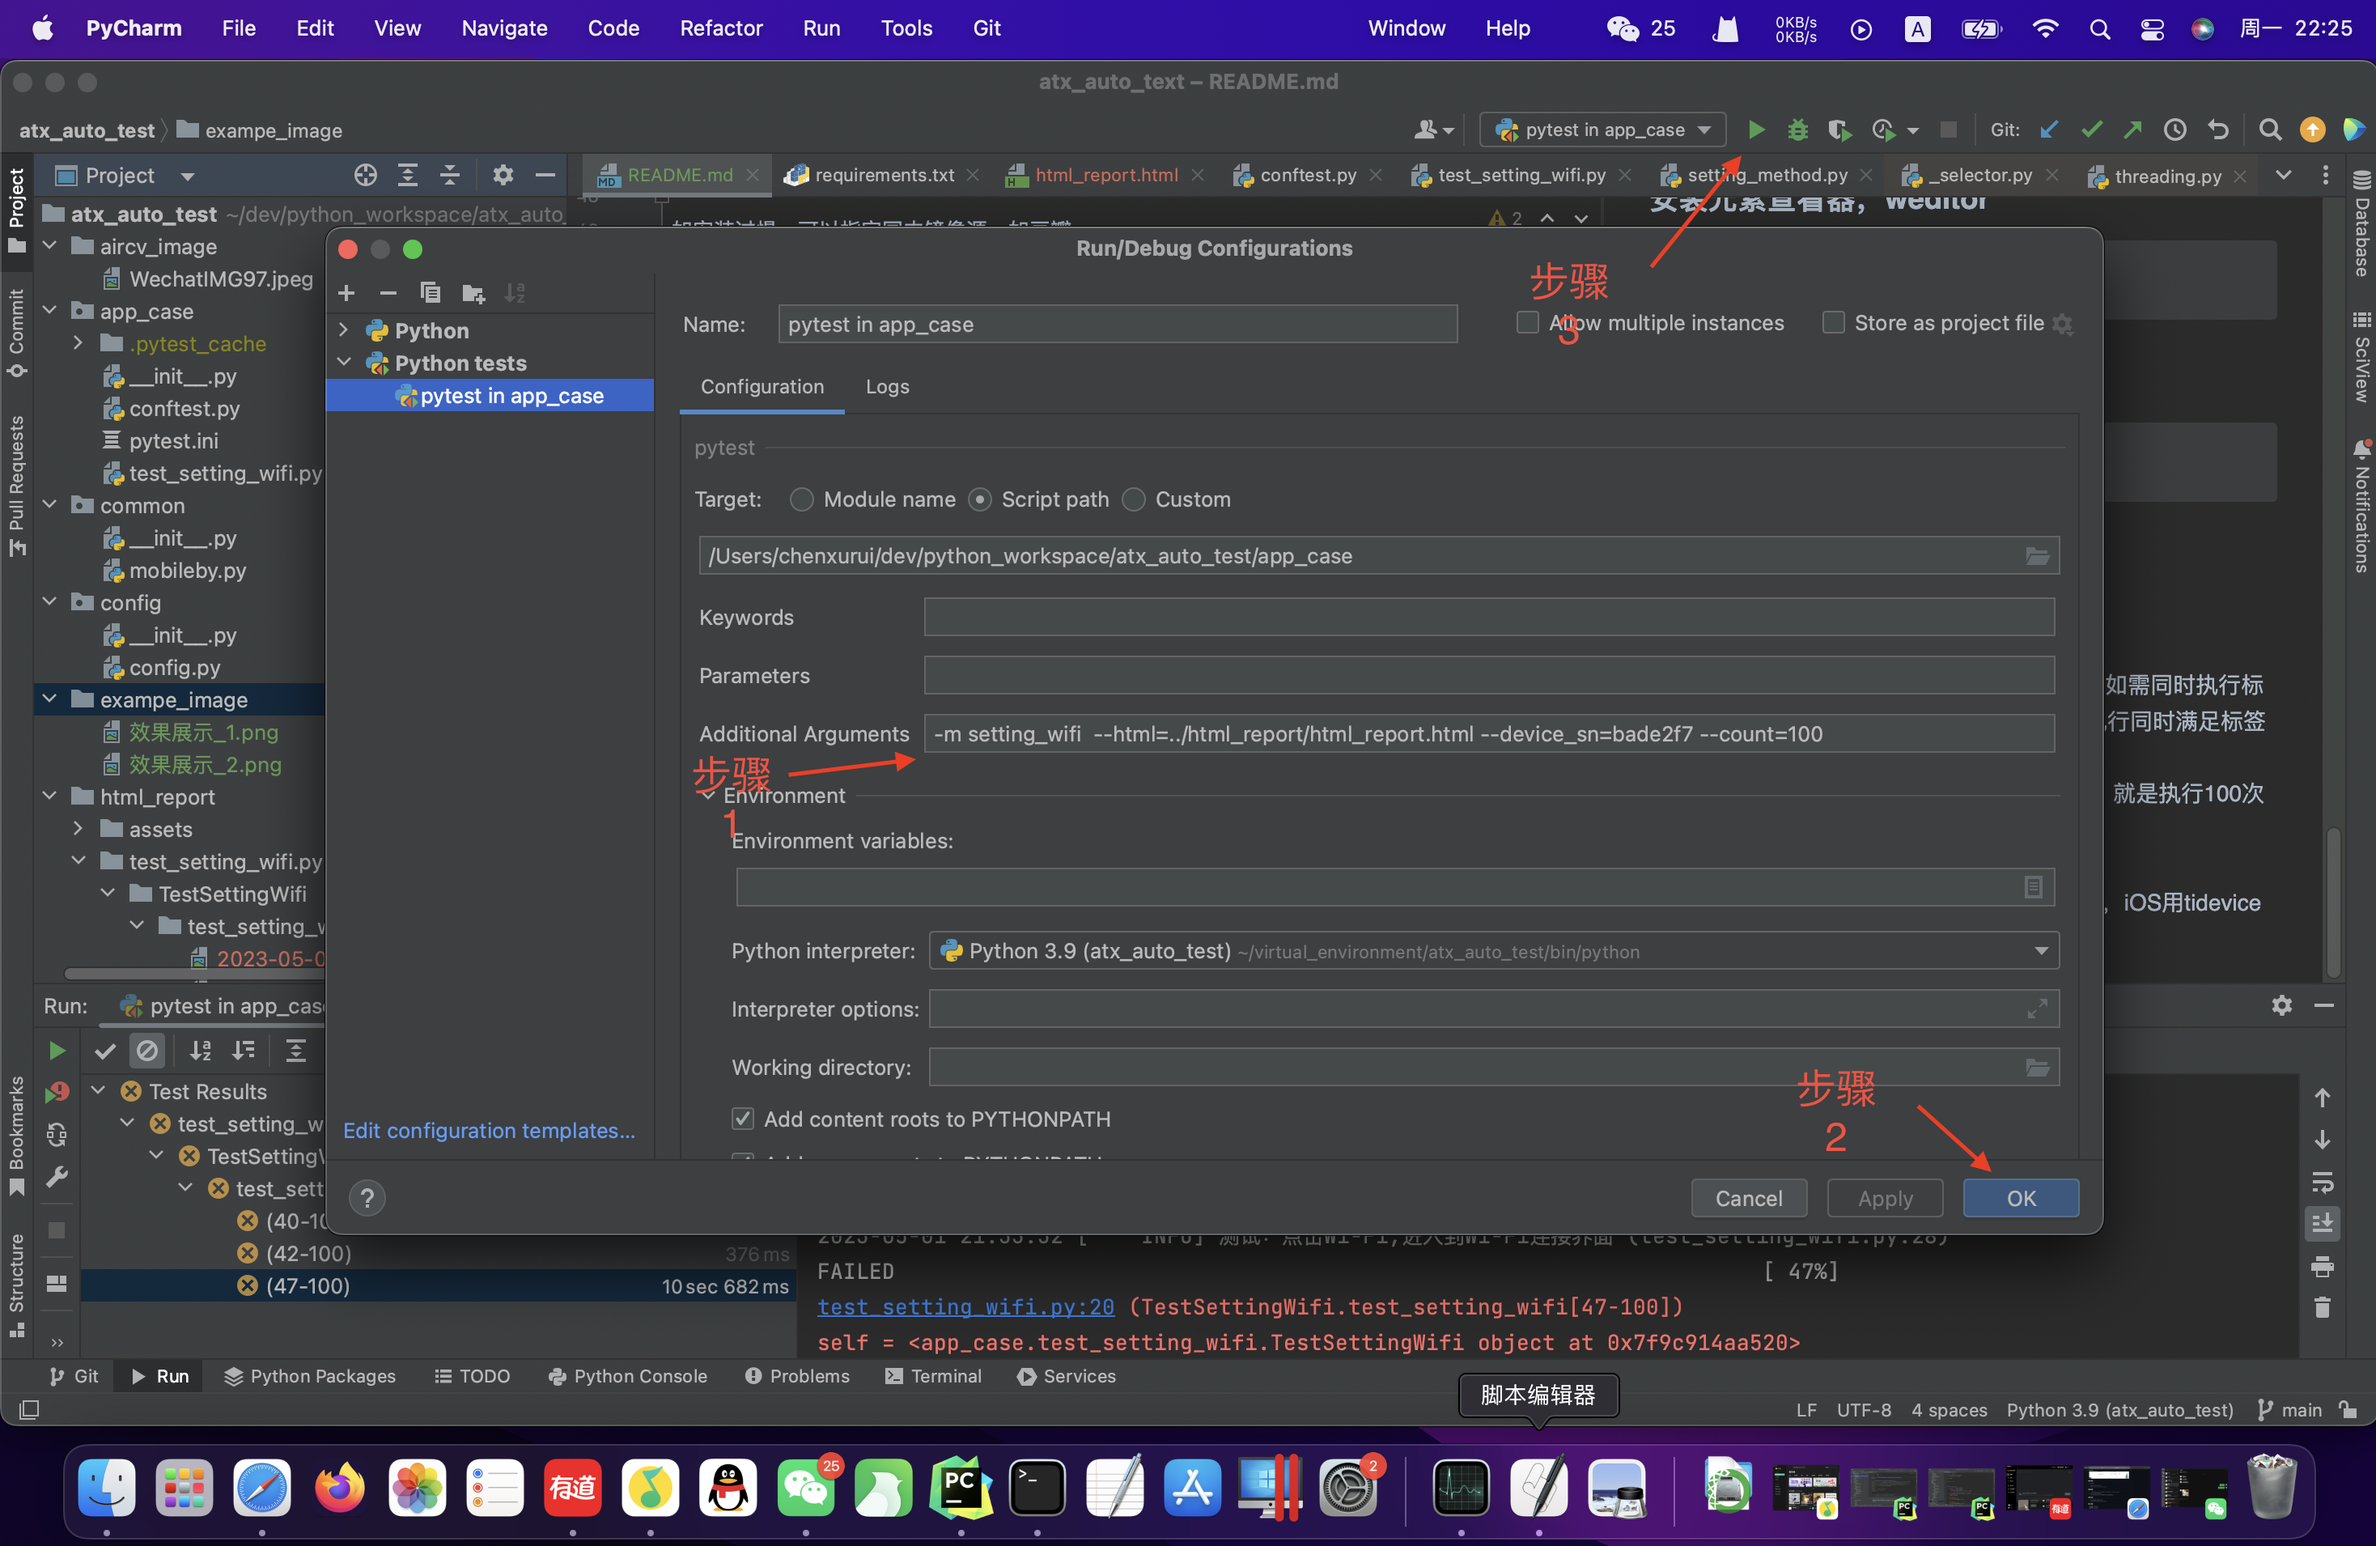
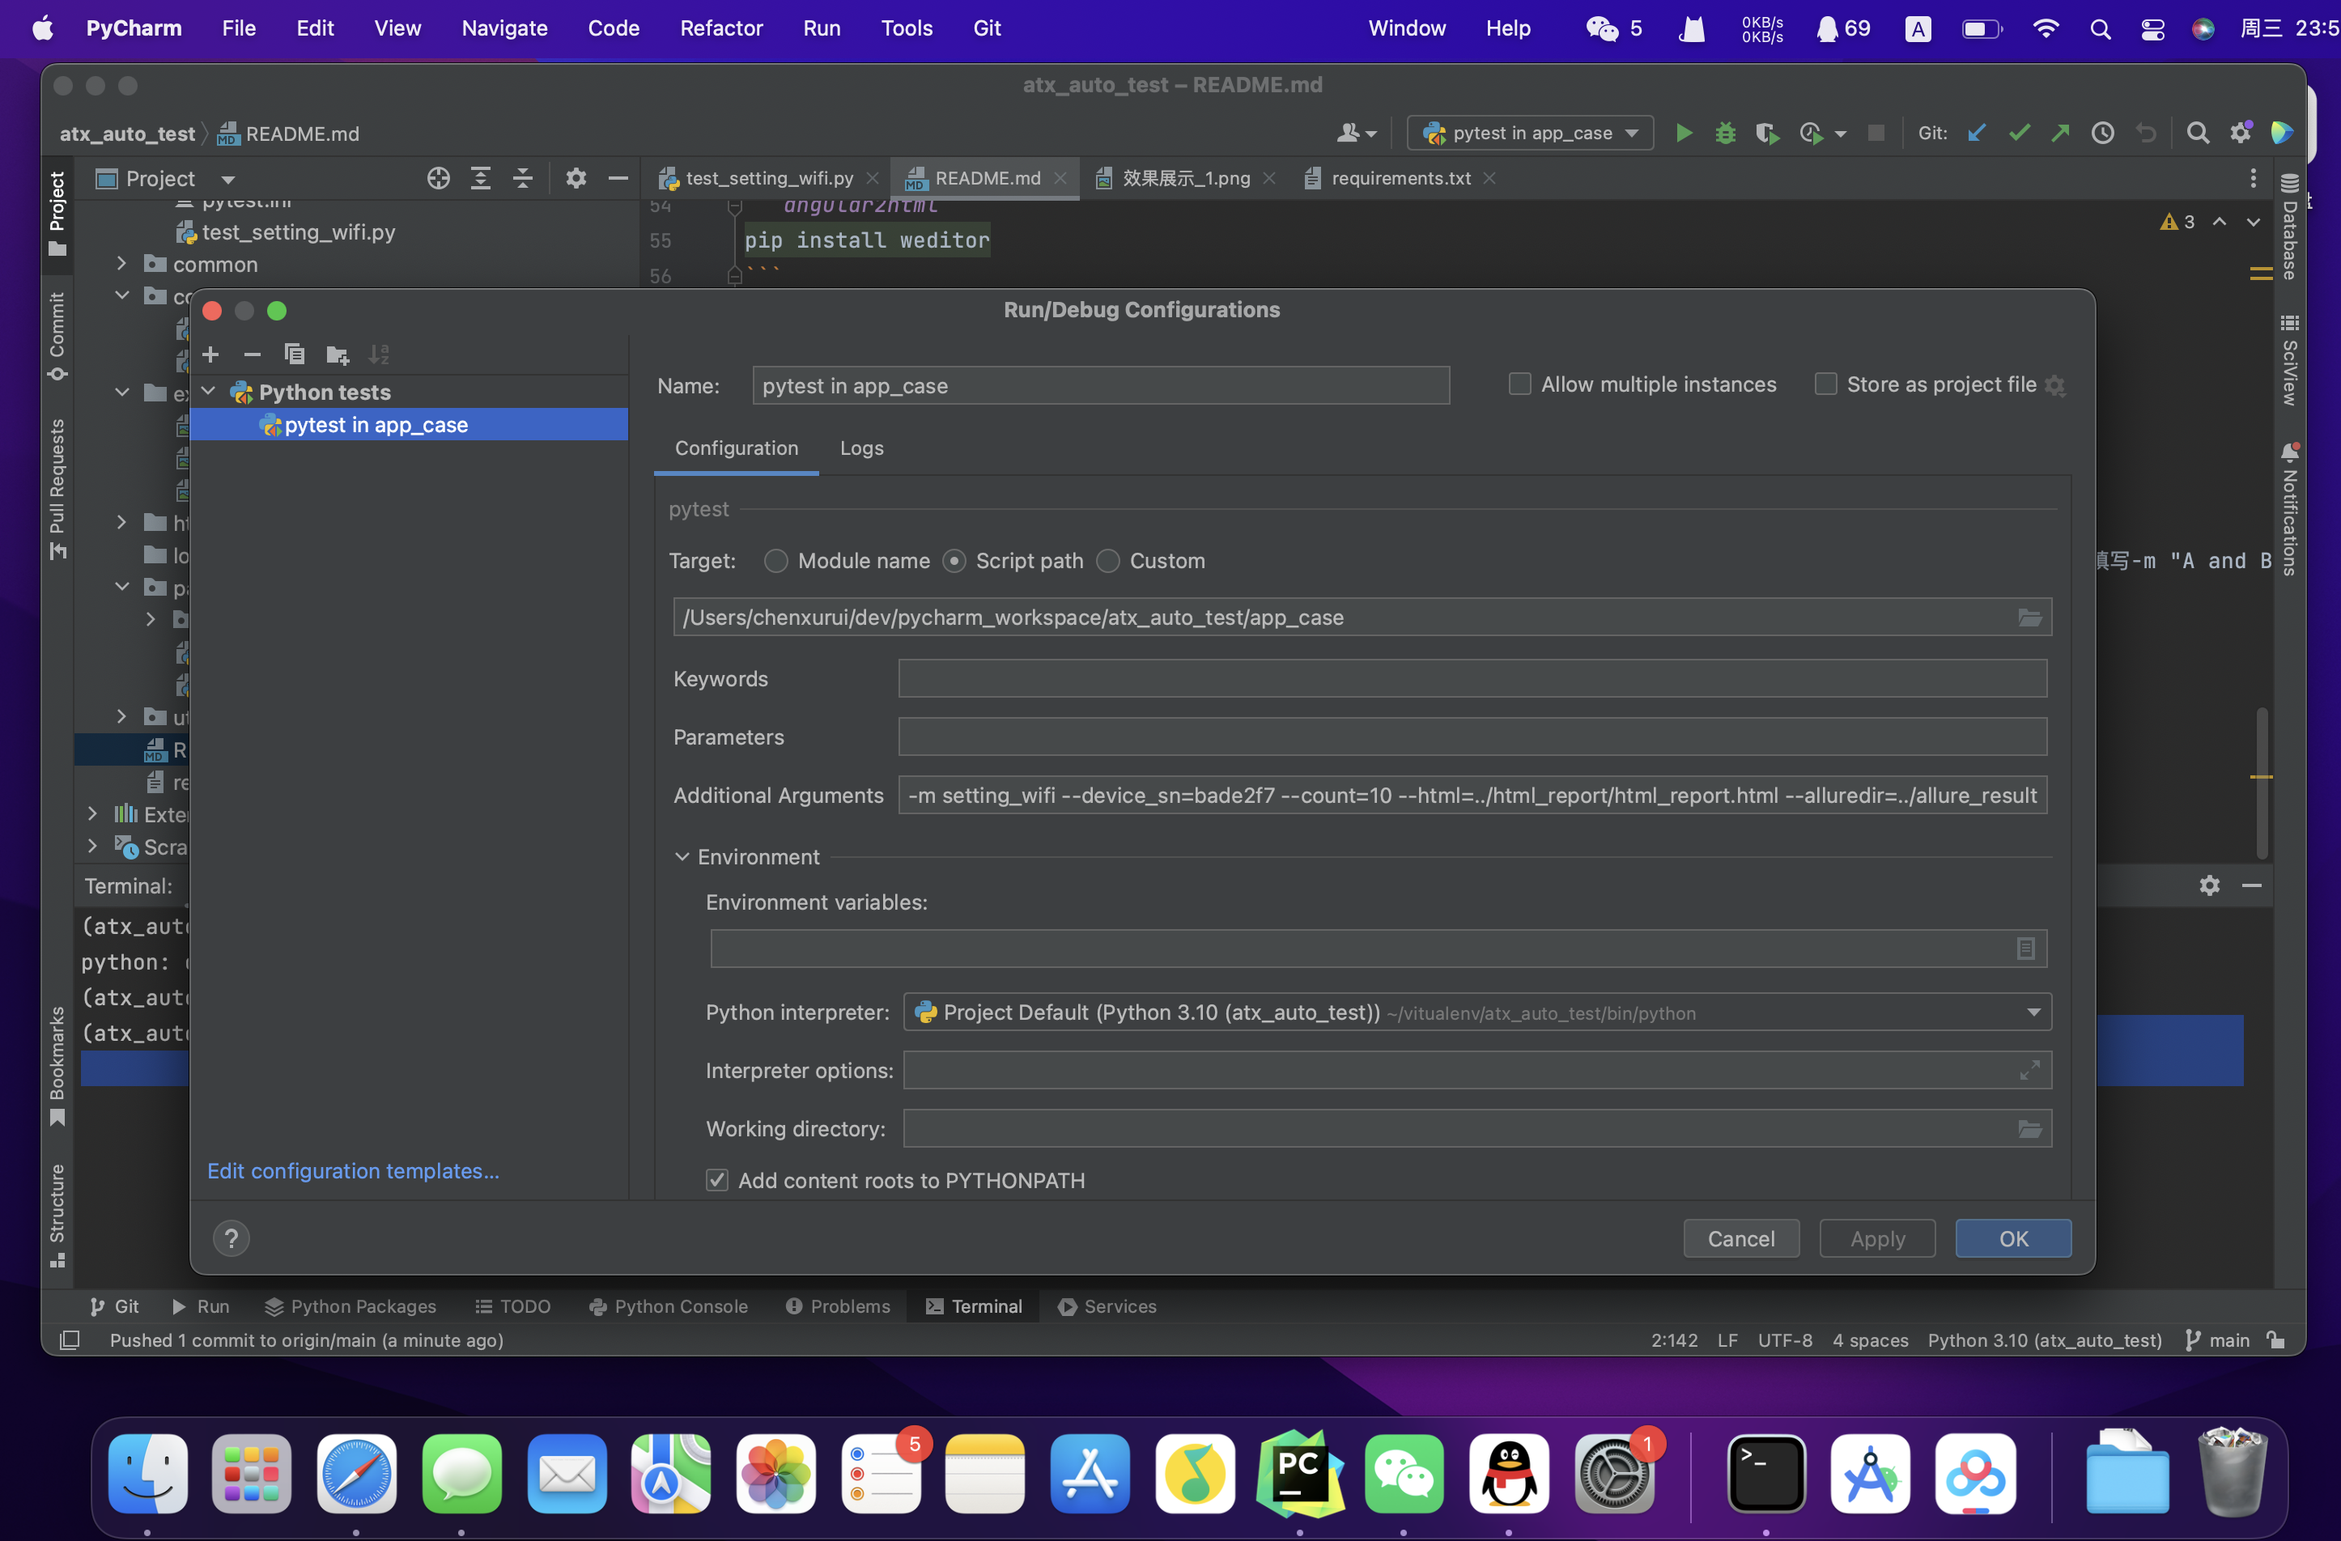
update README.md

Changed region(s): [[0.0, 0.0, 1.0, 1.0], [0.6846, 0.2479, 0.7158, 0.2789]]

diff --git a/README.md b/README.md
@@ -62,6 +62,7 @@ python -m weditor
 按照如下配置，点击执行按钮即可<br /> 
 ![pycharm_start.png](exampe_image%2Fpycharm_start.png)
 -m：需要执行的标签，例如案例setting_wifi，如需同时执行标签A和标签B，则可填写-m "A or B"，如需要执行同时满足标签A和B，则可填写-m "A and B"<br /> 
---count：需要执行的次数，例如--count=100，就是执行100次<br /> 
---html：html_report生成地址，一般填写-html=../html_report/html_report.html即可<br /> 
+--count：需要执行的次数，例如--count=100，就是执行100次<br />
 --device_sn：设备号，Android用adb devices，iOS用tidevice list<br />
+--html：html_report生成地址，一般填写--html=../html_report/html_report.html即可<br /> 
+--alluredir：allure测试结果存放地址，一般填写--allure_dir=../allure_result即可，测试完成allure报告会自动生成在allure_report<br />
